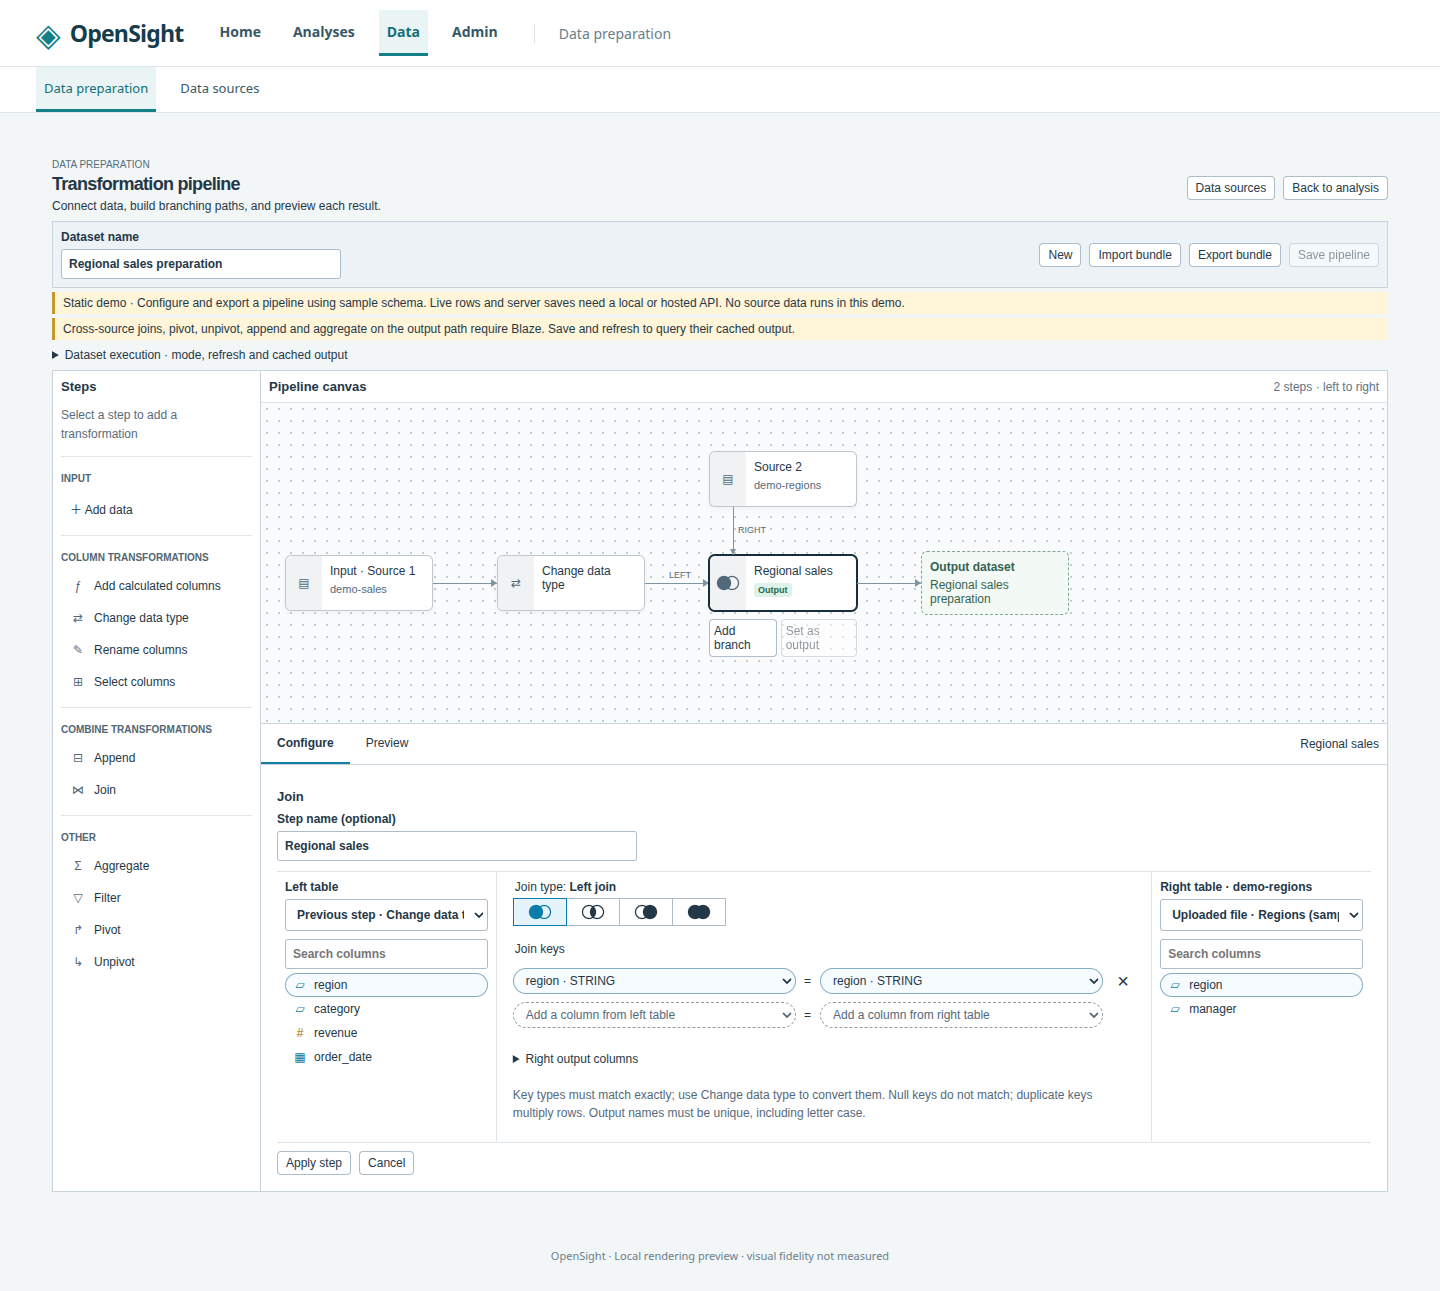
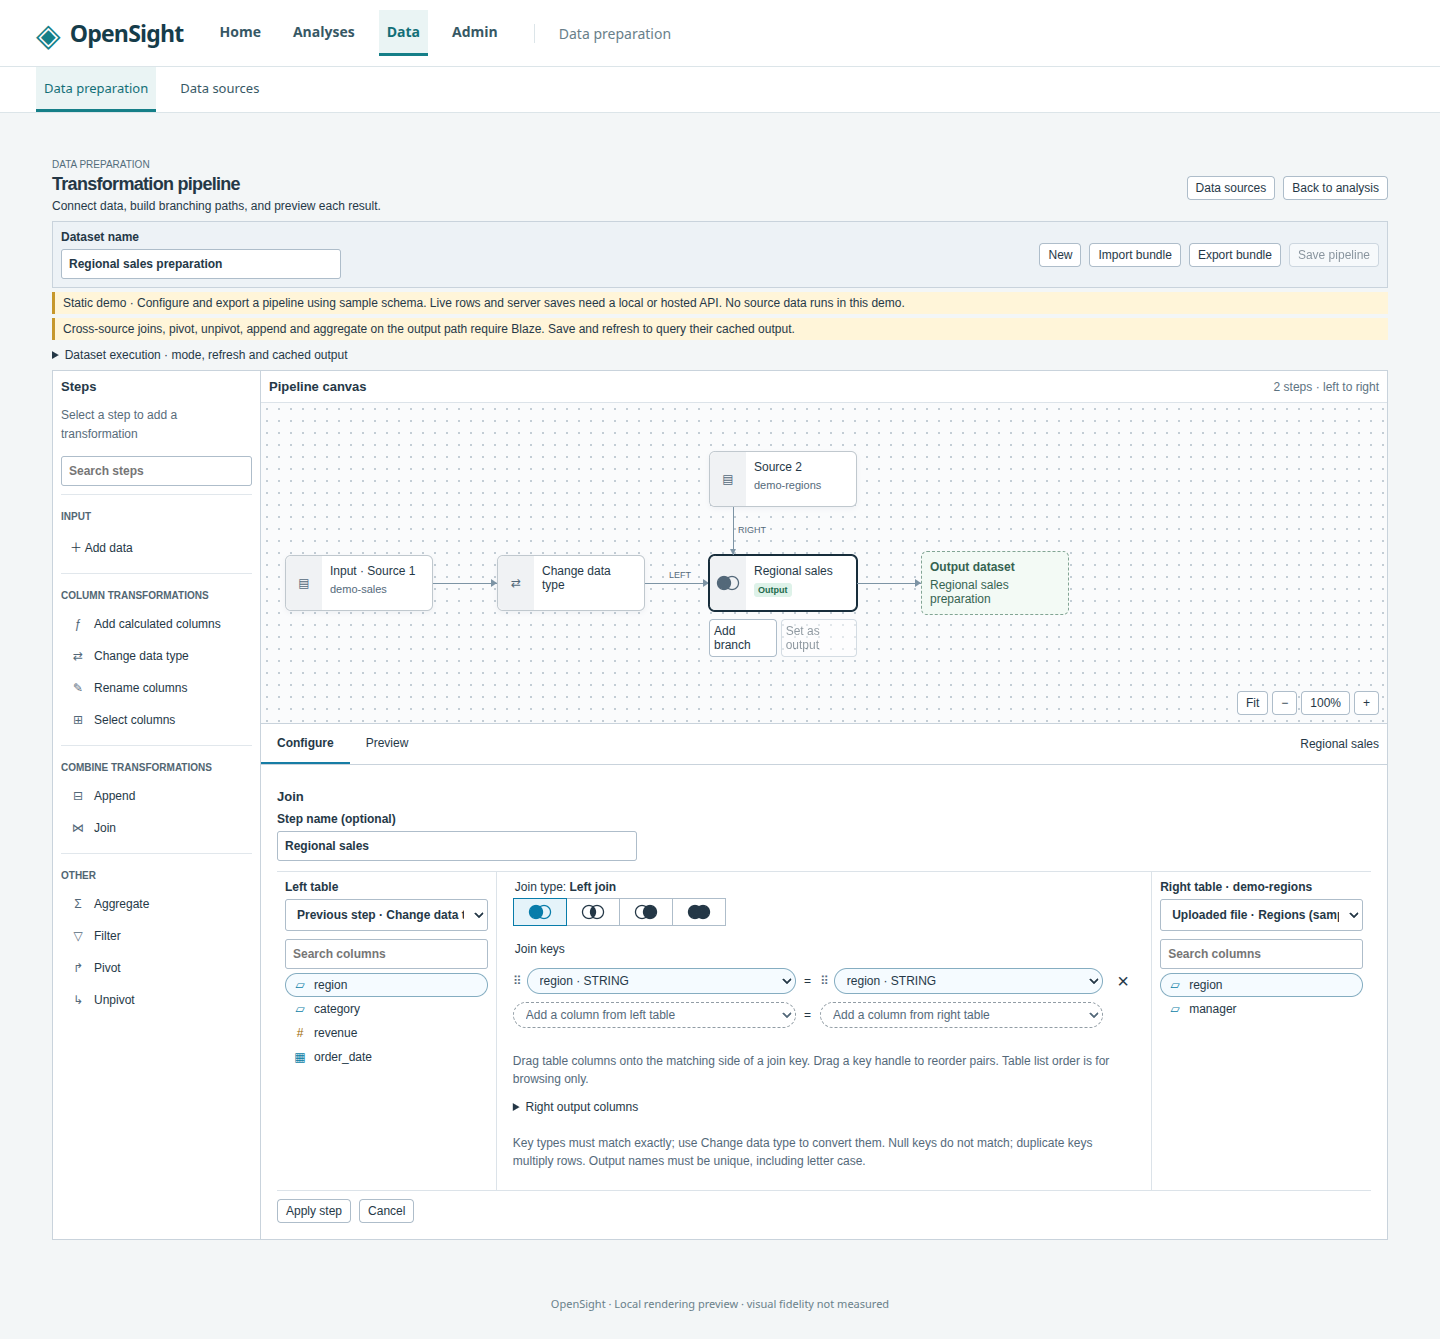
Issue #61: refresh README media and record browser verification

diff --git a/docs/issue-61-prep-canvas-followup.md b/docs/issue-61-prep-canvas-followup.md
@@ -5,13 +5,11 @@ Implemented from the issue #61 build brief on
 contracts are unchanged. No dependencies are added.
 
 The canvas supports wheel zoom at the pointer, zoom buttons, reset to 100%,
-fit-to-view and dragging its background to pan. Zoom ranges from 0.1% to 200% (including very long pipelines)
-and stays in memory while the preparation workspace is mounted, including
+fit-to-view and dragging its background to pan. Zoom ranges from 0.1% to 200%
+(including very long pipelines) and stays in memory while the preparation workspace is mounted, including
 step edits and Configure/Preview switches. Focus the canvas to pan with arrow
 keys, zoom with +/−, reset with 0 or fit with F. Node controls retain their
 selection and branching behavior.
-
-Verification and reference comparison are recorded after the final build.
 
 Steps search matches transformation names (including Add data), ignores case
 and surrounding whitespace, and retains only groups containing matches.
@@ -34,3 +32,68 @@ Preview headers can be dragged or moved with Alt + Left/Right. This changes
 only preview presentation, with cells always resolved by column name. The UI
 explains that Select columns changes dataset output order. Browser-list and
 preview order are session-local and do not rewrite pipeline metadata.
+
+## Demo capture and remaining gaps
+
+`capture-prep-canvas-followup.mjs` drives the rebuilt static demo using real
+pointer and native drag events. It covers button/wheel zoom, background pan,
+fit/reset, node selection, search/empty state/Escape focus, filtered-column
+ordering, key assignment and pair reordering, visible drop indicators,
+wrong-side/type refusal, preview ordering, persisted Select order, tabs,
+branch geometry and append mismatch refusal. Desktop (1440px) and mobile
+(390px) checks report no page overflow, page errors or external HTTP requests.
+The workspace keeps the 12px Arial system stack. Private synthetic tour
+artifacts are in ignored `.opensight/issue-61/browser/`.
+
+Viewed the supplied QuickSight reference locally and compared it with the
+fresh Configure, drop-indicator and mobile captures. No reference image was
+copied, committed or linked into the repository. Search, canvas view controls,
+typed column lists and paired-key drops now fill the three requested gaps.
+OpenSight still has taller product navigation, dataset actions, Apply/output
+controls, staging and explicit API/Blaze notices. Connectors remain straight
+with labeled links to earlier-step right sources; the reference uses curved
+connections. Editor controls and help text use more space. On narrow screens
+the tables stack; the canvas is clipped within its viewport and can be panned
+or fitted. Native HTML dragging targets desktop pointers; existing click,
+select and keyboard controls remain usable without dragging.
+
+These are qualitative findings, not a measured visual-parity claim. Static
+rows still require a local or hosted API, and append schema mismatch stays
+fail-closed under issue #19. Further visual refinement remains follow-up
+prep parity work. No network issue creation or phase-plan/design-file edit
+was made under this brief's explicit restrictions. The rebuilt static demo
+is a local artifact, not a deployed server.
+
+
+## Files and verification
+
+| Area | Files |
+| --- | --- |
+| Canvas | `packages/web/src/PrepGraph.tsx`, `PrepViewport.tsx` |
+| Search and preview | `packages/web/src/DataPrep.tsx`, `PrepPreviewTable.tsx` |
+| Column editors | `packages/web/src/PrepStepEditor.tsx`, `PrepJoinEditor.tsx`, `PrepColumns.tsx`, `prep-column-drag.ts` |
+| Styling | `packages/web/src/style.css` |
+| Tests | `packages/web/test/prep-canvas-followup.test.mjs` |
+| Capture scripts | `packages/web/scripts/capture-prep-canvas-followup.mjs`, `capture-readme-tour.mjs` |
+| Documentation/media | This document, `docs/images/data-prep.png`, `docs/images/opensight-tour.gif` |
+
+- Strict TypeScript and focused checks:
+  `node node_modules/typescript/bin/tsc -p packages/web/test/tsconfig.json`
+  followed by
+  `node --test --test-isolation=none packages/web/test/prep-canvas-followup.test.mjs packages/web/test/data-prep.test.mjs`:
+  **37 passed / 0 failed / 0 skipped**.
+- `npm run build:demo --workspace @opensight/web`: passed, including strict
+  TypeScript and the embed build.
+- `node packages/web/scripts/capture-prep-canvas-followup.mjs`: passed;
+  the final tour also checks that Fit contains all nodes in a branched graph.
+- `OPENSIGHT_SCREENSHOT_OUTPUT=.opensight/issue-61/gif node packages/web/scripts/capture-readme-tour.mjs`:
+  passed with zero page errors and external requests. This maintained
+  adaptation of the supplied README capture script runs against the rebuilt
+  demo and now includes the issue #61 interactions.
+- Both documented ffmpeg palette/assembly commands passed. The refreshed
+  README hero has 251 frames at 960×600, 10fps, 25.1 seconds. The prep feature
+  screenshot is refreshed from the final Configure capture.
+
+Full-suite logs and exact totals are retained in ignored
+`.opensight/issue-61/verification/`; the suite runs without concurrent browser
+capture or GIF assembly.
